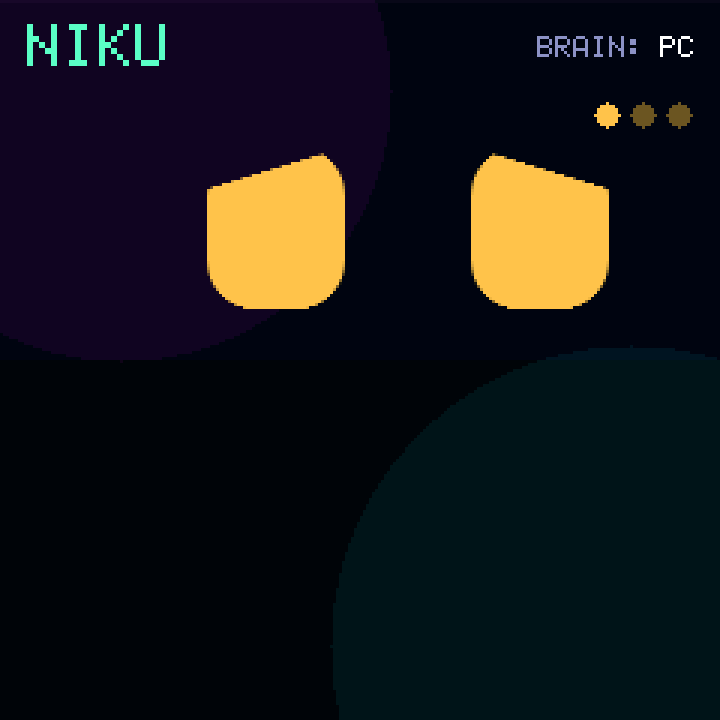
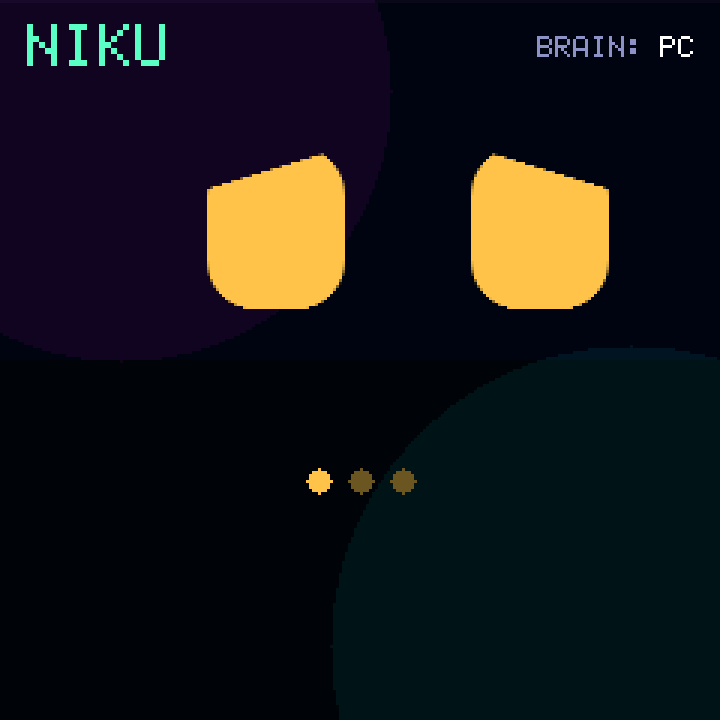
Buddy: visible on every theme, one text size, thinking dots at the mouth
- A face colour too close to the background takes the text colour: sad
  and listening use glow_b, which AMOLED and CLAY set to black.
- The bubble keeps body text and wraps a long line onto two balanced
  rows, instead of dropping to the tiny caption size.
- Thinking's "..." sits where the mouth goes, not under the header.
- CHATTY (a typing blip per letter) is the default sound.
- png2c downscales by any ratio: 240 at MAX_DIM 216 came out 120.

diff --git a/src/buddy/buddy.c b/src/buddy/buddy.c
@@ -68,7 +68,7 @@ static int g_eye_y0, g_eye_y1;
 static int64_t g_last_step;
 
 static bool g_enabled = true;
-static uint8_t g_sound = NEXUS_BUDDY_SOUND_CHIRPS;
+static uint8_t g_sound = NEXUS_BUDDY_SOUND_CHATTY;
 static uint8_t g_pin = NEXUS_BUDDY_BRAIN_AUTO;
 
 static enum nexus_buddy_source g_brain = NEXUS_BUDDY_LOCAL;
@@ -660,11 +660,11 @@ static void repaint(bool bubble)
 	bool phase = f->phase != d->phase;
 	bool eyes = colour || f->extra != d->extra ||
 		    memcmp(f->g, d->g, sizeof(f->g)) != 0 ||
-		    (phase && (f->extra == FACE_X_ZZZ || f->extra == FACE_X_DOTS));
+		    (phase && f->extra == FACE_X_ZZZ);
 	bool mouth = colour || f->mouth != d->mouth || f->open != d->open ||
 		     f->extra != d->extra ||
 		     f->g[F_GAZE_X] / 3 != d->g[F_GAZE_X] / 3 ||
-		     (phase && f->extra == FACE_X_BARS);
+		     (phase && (f->extra == FACE_X_BARS || f->extra == FACE_X_DOTS));
 	int y0, y1;
 
 	face_eye_rows(f, &y0, &y1);
@@ -761,22 +761,60 @@ static void draw_header(const struct nexus_theme *t)
 	gfx_text(x, 12, brain, NEXUS_TXT_CAPTION, t->value, GFX_OPAQUE);
 }
 
+/* One row of the bubble: @p n characters of the line from @p from, centred
+ * for all of them, of which the first @p shown are drawn. */
+static void bubble_row(const struct nexus_theme *t, size_t from, size_t n,
+		       size_t shown, int y)
+{
+	char buf[FACE_LINE_MAX + 1];
+
+	memcpy(buf, &g_line[from], n);
+	buf[n] = '\0';
+	int x = GFX_W / 2 - gfx_text_w(buf, NEXUS_TXT_BODY) / 2;
+
+	buf[MIN(shown, n)] = '\0';
+	gfx_text(x, y, buf, NEXUS_TXT_BODY, t->value, GFX_OPAQUE);
+}
+
+/*
+ * Every line at one size: body text, on one row if it fits and two if not,
+ * broken at the space nearest the middle that lets both rows fit (a word
+ * longer than a row is broken where it must). Laid out for the whole
+ * line, so the words already shown stay put while the rest arrives.
+ */
 static void draw_bubble(const struct nexus_theme *t)
 {
-	char shown[FACE_LINE_MAX + 1];
-	/* Laid out for the whole line, so the words already shown stay put
-	 * while the rest arrives. */
-	int scale = gfx_text_w(g_line, NEXUS_TXT_BODY) <= NEXUS_CONTENT_W - 16
-			    ? NEXUS_TXT_BODY
-			    : NEXUS_TXT_CAPTION;
-	int x = GFX_W / 2 - gfx_text_w(g_line, scale) / 2;
-
-	memcpy(shown, g_line, g_shown);
-	shown[g_shown] = '\0';
+	size_t len = strlen(g_line);
+	int adv = gfx_text_w("AA", NEXUS_TXT_BODY) - gfx_text_w("A", NEXUS_TXT_BODY);
+	size_t fit = (size_t)((NEXUS_CONTENT_W - 16 + NEXUS_TXT_BODY) / adv);
+	int h = gfx_text_h(NEXUS_TXT_BODY);
 
 	nexus_draw_card(NEXUS_PAD, FACE_BUBBLE_Y, NEXUS_CONTENT_W, FACE_BUBBLE_H);
-	gfx_text(x, FACE_BUBBLE_Y + (FACE_BUBBLE_H - gfx_text_h(scale)) / 2,
-		 shown, scale, t->value, GFX_OPAQUE);
+	if (len <= fit) {
+		bubble_row(t, 0, len, g_shown, FACE_BUBBLE_Y + (FACE_BUBBLE_H - h) / 2);
+		return;
+	}
+
+	size_t cut = fit; /* no space that works: break mid-word */
+	size_t next = fit;
+
+	size_t best = len;
+
+	for (size_t i = 1; i <= fit; i++) {
+		size_t longer = MAX(i, len - i - 1);
+
+		if (g_line[i] == ' ' && longer <= fit && longer < best) {
+			best = longer;
+			cut = i;
+			next = i + 1;
+		}
+	}
+
+	int y = FACE_BUBBLE_Y + (FACE_BUBBLE_H - 2 * h - 2) / 2;
+
+	bubble_row(t, 0, cut, g_shown, y);
+	bubble_row(t, next, len - next, g_shown > next ? g_shown - next : 0,
+		   y + h + 2);
 }
 
 static void buddy_draw(void)

diff --git a/scripts/render_ui.py b/scripts/render_ui.py
@@ -1570,12 +1570,20 @@ def bud_arc(cv, cx, cy, rad, th, which, c):
             q_span(cv, y, cx * 16 + inn, cx * 16 + out, c)
 
 
+def bud_visible(t, c):
+    """face.c slot(): a colour too close to the ground takes the text colour."""
+    def luma(v):
+        r, g, b = (v >> 11) * 255 // 31, ((v >> 5) & 63) * 255 // 63, (v & 31) * 255 // 31
+        return (2 * r + 5 * g + b) // 8
+    return t['value'] if abs(luma(c) - luma(mix(t['bg_top'], t['bg_bot'], 128))) < 48 else c
+
+
 def buddy(cv, t, emotion='NEUTRAL', line='', brain='LOCAL', phase=0):
     """src/buddy: the face at rest, its header and its bubble."""
     UI(cv, t).ground()
     p = BUD_T[emotion]
     g = p['g']
-    c = t[p['colour']]
+    c = bud_visible(t, t[p['colour']])
     cx, my = BUD['FACE_CX'], BUD['FACE_MOUTH_Y']
 
     cv.text(PAD, 8, BUD_NAME, LABEL, t['accent'])
@@ -1610,7 +1618,7 @@ def buddy(cv, t, emotion='NEUTRAL', line='', brain='LOCAL', phase=0):
                     c if (phase // 2) % 3 == i else dim)
     elif p['extra'] == 'DOTS':
         for i in range(3):
-            cv.disc(202 + i * 12, BUD['FACE_EXTRA_Y0'] + 10, 4,
+            cv.disc(cx - 14 + i * 14, BUD['FACE_MOUTH_Y'], 4,
                     c if phase % 3 == i else dim)
     elif p['extra'] == 'BARS':
         for i in range(3):
@@ -1620,9 +1628,22 @@ def buddy(cv, t, emotion='NEUTRAL', line='', brain='LOCAL', phase=0):
     if line:
         by, bh = BUD['FACE_BUBBLE_Y'], BUD['FACE_BUBBLE_H']
         UI(cv, t).card(PAD, by, CONTENT_W, bh)
-        s = BODY if text_w(line, BODY) <= CONTENT_W - 16 else CAPTION
-        cv.text(W // 2 - text_w(line, s) // 2, by + (bh - text_h(s)) // 2,
-                line, s, t['value'])
+        # buddy.c's draw_bubble: body text, wrapped to two rows if needed.
+        fit = (CONTENT_W - 16 + BODY) // (text_w('AA', BODY) - text_w('A', BODY))
+        h = text_h(BODY)
+        if len(line) <= fit:
+            rows, y = [line], by + (bh - h) // 2
+        else:
+            cut = nxt = fit
+            best = len(line)
+            for i in range(1, fit + 1):
+                longer = max(i, len(line) - i - 1)
+                if line[i] == ' ' and longer <= fit and longer < best:
+                    best, cut, nxt = longer, i, i + 1
+            rows, y = [line[:cut], line[nxt:]], by + (bh - 2 * h - 2) // 2
+        for r in rows:
+            cv.text(W // 2 - text_w(r, BODY) // 2, y, r, BODY, t['value'])
+            y += h + 2
 
 
 # What each emotion says in the docs' pictures, and who is driving it.
@@ -1647,7 +1668,7 @@ SETTINGS_REMOTE_ROWS = (SETTINGS_ROWS[:8] + [('PHONE', 'LINKED')] +
 PHONE_ROWS = [('PAIR', ''), ('REMOTE', 'ON'), ('FORGET', '1 PHONE'),
               ('BACK', '')]
 # Settings > BUDDY, the list menus.c pushes (buddy_rows)
-BUDDY_ROWS = [('SHOW', ''), ('BUDDY', 'ON'), ('SOUND', 'CHIRPS'),
+BUDDY_ROWS = [('SHOW', ''), ('BUDDY', 'ON'), ('SOUND', 'CHATTY'),
               ('BRAIN', 'AUTO PC'), ('BACK', '')]
 DIAG_ROWS = [('FIRMWARE', 'V1.0.0'), ('BOARD', 'NICE_NANO'),
              ('DISPLAY', 'OK'), ('BACKLIGHT', 'OK'), ('BUZZER', 'OK'),

diff --git a/scripts/png2c.py b/scripts/png2c.py
@@ -157,32 +157,30 @@ def decode_png(data):
 
 
 def box_downscale(width, height, pixels, max_dim):
-    """Integer box filter. Flash is the constraint, not resampling quality."""
+    """Box filter to fit max_dim, any ratio. Each output pixel averages the
+    source pixels its footprint touches. Whole factors only used to round
+    240 at 216 down to 120 - half the size asked for."""
     if max(width, height) <= max_dim:
         return width, height, pixels
 
-    factor = (max(width, height) + max_dim - 1) // max_dim
-    new_w = max(1, width // factor)
-    new_h = max(1, height // factor)
+    big = max(width, height)
+    new_w = max(1, width * max_dim // big)
+    new_h = max(1, height * max_dim // big)
     out = []
 
     for y in range(new_h):
+        y0, y1 = y * height // new_h, max(y * height // new_h + 1, (y + 1) * height // new_h)
         for x in range(new_w):
-            r = g = b = a = n = 0
-            for dy in range(factor):
-                sy = y * factor + dy
-                if sy >= height:
-                    break
-                for dx in range(factor):
-                    sx = x * factor + dx
-                    if sx >= width:
-                        break
+            x0, x1 = x * width // new_w, max(x * width // new_w + 1, (x + 1) * width // new_w)
+            r = g = b = a = 0
+            for sy in range(y0, y1):
+                for sx in range(x0, x1):
                     pr, pg, pb, pa = pixels[sy * width + sx]
                     r += pr
                     g += pg
                     b += pb
                     a += pa
-                    n += 1
+            n = (y1 - y0) * (x1 - x0)
             out.append((r // n, g // n, b // n, a // n))
 
     return new_w, new_h, out

diff --git a/src/buddy/face.c b/src/buddy/face.c
@@ -21,7 +21,7 @@
 
 #include "buddy_priv.h"
 
-static gfx_color slot(const struct nexus_theme *t, uint8_t c)
+static gfx_color theme_slot(const struct nexus_theme *t, uint8_t c)
 {
 	switch (c) {
 	case FACE_C_GLOW_B:
@@ -37,6 +37,30 @@ static gfx_color slot(const struct nexus_theme *t, uint8_t c)
 	default:
 		return t->accent;
 	}
+}
+
+/* Rough brightness of an RGB565 colour, 0-255. */
+static int luma(gfx_color c)
+{
+	int r = (c >> 11) * 255 / 31;
+	int g = ((c >> 5) & 63) * 255 / 63;
+	int b = (c & 31) * 255 / 31;
+
+	return (2 * r + 5 * g + b) / 8;
+}
+
+/*
+ * A slot's colour, or the text colour where the slot would vanish. A theme
+ * with no glows sets glow_b to black - AMOLED, CLAY - and a sad face drawn
+ * in it disappears into the ground. Too close to the middle of the gradient,
+ * where the face sits, it is drawn in the theme's text colour instead.
+ */
+static gfx_color slot(const struct nexus_theme *t, uint8_t c)
+{
+	gfx_color col = theme_slot(t, c);
+	int d = luma(col) - luma(gfx_mix(t->bg_top, t->bg_bot, 128));
+
+	return (d < 0 ? -d : d) < 48 ? t->value : col;
 }
 
 /*
@@ -306,8 +330,9 @@ static void extras(const struct face_frame *f, gfx_color c, gfx_color dim)
 		}
 		break;
 	case FACE_X_DOTS:
+		/* "..." where the mouth would be, one dot lit at a time. */
 		for (int i = 0; i < 3; i++) {
-			gfx_disc(202 + i * 12, FACE_EXTRA_Y0 + 10, 4,
+			gfx_disc(FACE_CX - 14 + i * 14, FACE_MOUTH_Y, 4,
 				 (f->phase % 3) == i ? c : dim, GFX_OPAQUE);
 		}
 		break;

diff --git a/tests/buddy/test_buddy.py b/tests/buddy/test_buddy.py
@@ -132,6 +132,15 @@ def compiled_out():
        'four observers with everything built, of %d slots' % slots)
 
 
+def face_colours():
+    face = read('src', 'buddy', 'face.c')
+    ok('t->value : col' in face and 'theme_slot(t, c)' in face,
+       'a face colour that would vanish into the ground (AMOLED has no glow) '
+       'is drawn in the text colour')
+    ok('bud_visible' in read('scripts', 'render_ui.py'),
+       'and the docs renderer does the same')
+
+
 def protocol():
     print('\nThe brain\'s keys belong to the face, never to the HOST screen')
     c = read('src', 'host', 'host_link.c')
@@ -345,6 +354,7 @@ def pc_brain():
 
 def main():
     compiled_out()
+    face_colours()
     protocol()
     persona()
     pc_brain()

diff --git a/tests/splash/test_png2c.py b/tests/splash/test_png2c.py
@@ -146,6 +146,14 @@ def test_downscale_halves_and_averages():
     w, h, out = png2c.box_downscale(4, 4, px, 8)
     check((w, h, len(out)) == (4, 4, 16), "downscale ran when it should not")
 
+    # Any ratio, not just whole factors: 240 at 216 is 216, not 120.
+    big = [(x % 256, 0, 0, 255) for y in range(240) for x in range(240)]
+    w, h, out = png2c.box_downscale(240, 240, big, 216)
+    check((w, h, len(out)) == (216, 216, 216 * 216),
+          "240 at 216 came out %dx%d" % (w, h))
+    w, h, _ = png2c.box_downscale(300, 150, [(9, 9, 9, 9)] * 45000, 200)
+    check((w, h) == (200, 100), "aspect ratio lost: %dx%d" % (w, h))
+
 
 def test_rejects_interlaced():
     png = make_png(2, 1, 2, [bytes((1, 2, 3, 4, 5, 6))], [0])

diff --git a/src/buddy/face_anim.h b/src/buddy/face_anim.h
@@ -22,7 +22,7 @@
 #define FACE_EYE_Y 96    /* the eyes' centre line, before an emotion moves it */
 #define FACE_MOUTH_Y 160
 #define FACE_HEADER_H 28 /* name and brain, rows 0..27 */
-#define FACE_EXTRA_Y0 28 /* ZZZ and the thinking dots, up and to the right */
+#define FACE_EXTRA_Y0 28 /* ZZZ, up and to the right */
 #define FACE_EXTRA_Y1 80
 #define FACE_MOUTH_Y0 140
 #define FACE_MOUTH_Y1 184

diff --git a/src/buddy/face_anim.c b/src/buddy/face_anim.c
@@ -312,7 +312,7 @@ void face_eye_rows(const struct face_frame *f, int *y0, int *y1)
 	top -= 1;
 	bot += 1;
 
-	if (f->extra == FACE_X_ZZZ || f->extra == FACE_X_DOTS) {
+	if (f->extra == FACE_X_ZZZ) {
 		if (FACE_EXTRA_Y0 < top) {
 			top = FACE_EXTRA_Y0;
 		}

diff --git a/docs/buddy.md b/docs/buddy.md
@@ -48,7 +48,7 @@ On the face, a **tap** pokes it (a giggle and a line) and a **hold** goes back.
 | --- | --- |
 | `SHOW` | Open the face. |
 | `BUDDY` | `ON`, or `OFF`: asleep, silent, ignoring every brain. |
-| `SOUND` | `OFF`, `CHIRPS` (a cue per emotion, at most one unprompted every three minutes; the default) or `CHATTY` (and a blip per letter it says). |
+| `SOUND` | `OFF`, `CHIRPS` (a cue per emotion, at most one unprompted every three minutes) or `CHATTY` (and a typing blip per letter as a line appears; the default). |
 | `BRAIN` | Who may drive the face: `AUTO` (whoever spoke last - the row also shows who that is), `PC`, `PHONE`, or `LOCAL` (nobody; its own moods only). |
 
 They are saved with SAVE like everything else, under their own key.
@@ -57,7 +57,9 @@ They are saved with SAVE like everything else, under their own key.
 
 Nine of them, each a row of numbers in `src/buddy/face_anim.c` and drawn
 from geometry - no sprites. Every colour is a theme slot, so they read on
-every palette, DAYLIGHT's light ground included.
+every palette, DAYLIGHT's light ground included. A slot too close to the
+background (AMOLED and CLAY have no glow colour, which sad and listening
+use) is drawn in the theme's text colour instead.
 
 | | | |
 | --- | --- | --- |
